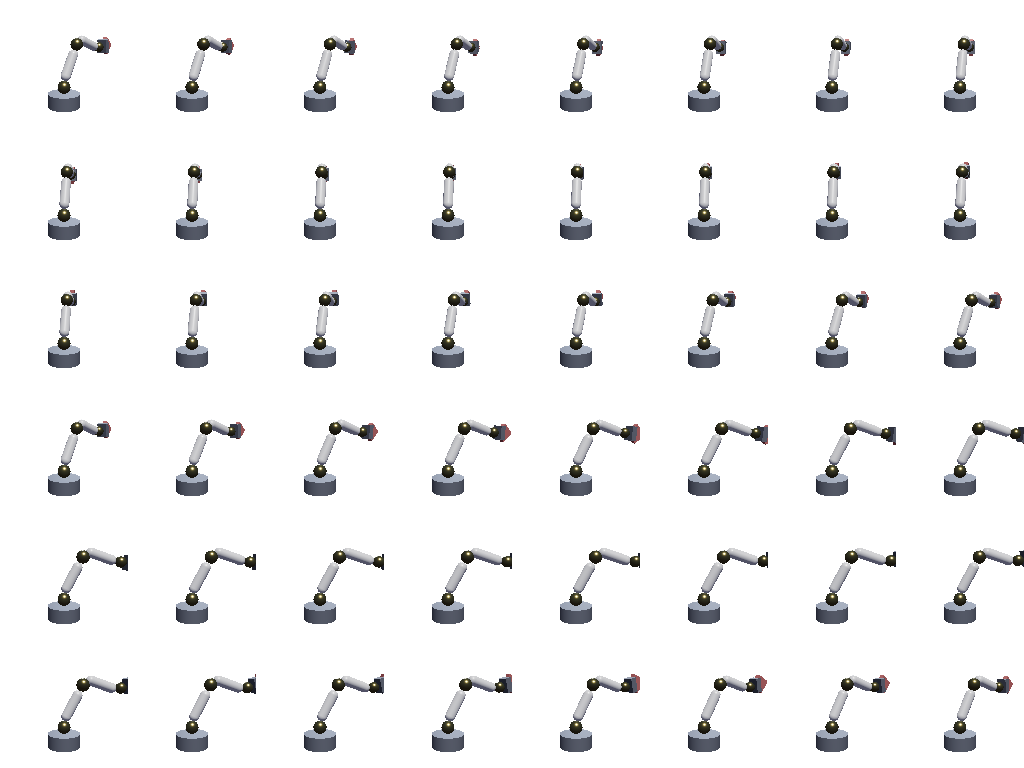
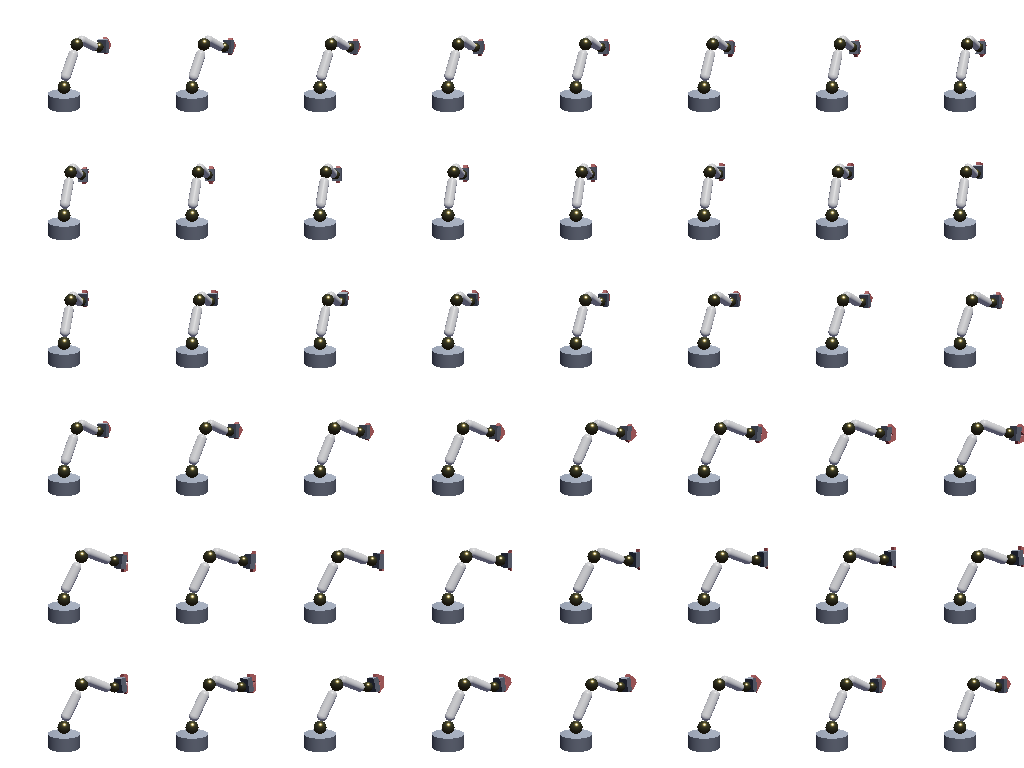
artstation: pixel-clamped sheet sizing + drop INSPECT pane + narrow robot_arm wave
resetCanvas now sets explicit pixel CSS dims with an aspect-preserving
clamp via per-canvas displayCap() — the previous aspect-ratio + auto
sizing approach worked in spec'd browsers but htmlayout collapsed the
SHEET canvas to zero in windowed mode.

Drops the INSPECT pane (canvas + scaled-replay code paths) and its
inspectArt global. The pane was redundant once the live STAGE preview
animated the asset directly, and removing it gives SHEET and STAGE more
room in the windowed layout.

robot_arm yaw amplitude reduced from ±0.7 to ±0.45 rad so the gripper
stays inside the 128×128 frame at peak yaw — was clipping at the cell
edge in both the sprite sheet and the live preview.

diff --git a/apps/artstation/app.js b/apps/artstation/app.js
@@ -10,7 +10,6 @@
 (function () {
 
     const sheetCanvas   = document.getElementById('sheet');
-    const inspectCanvas = document.getElementById('inspect');
     const stageCanvas   = document.getElementById('stage');
     const status        = document.getElementById('status');
     const info          = document.getElementById('info');
@@ -429,22 +428,26 @@
         ctx.imageSmoothingEnabled = true;
     }
 
+    // Per-canvas display caps for resetCanvas. The buffer stays at full
+    // resolution; only the CSS display dims get clamped here. Stage is
+    // user-fixed at 320×240 in style.css so we leave it untouched.
+    function displayCap(canvas) {
+        if (canvas.id === 'sheet') return { w: 520, h: 720 };
+        return { w: Infinity, h: Infinity };
+    }
+
     // Resize a canvas to the target asset size and clear to bg. The buffer
-    // is set to (w, h) at full resolution so screenshot exports stay
-    // pixel-perfect; the CSS display size is clamped via the canvas's
-    // existing max-width / max-height from style.css so a giant sprite
-    // sheet (e.g. 1024×768 from a long animated scene) doesn't blow out
-    // the windowed grid layout.
+    // (canvas.width / height) is set at full resolution so screenshot
+    // exports stay pixel-perfect; the CSS display size is clamped to a
+    // per-canvas max while preserving aspect ratio, so a 1024×768 sheet
+    // doesn't blow out the windowed grid column.
     function resetCanvas(canvas, w, h, bg, pixel) {
         canvas.width  = w;
         canvas.height = h;
-        // Let CSS shrink the displayed canvas via aspect-ratio + max-width
-        // (defined per-canvas in style.css). Clear inline width so it
-        // doesn't override the stylesheet, and pin aspect-ratio so the
-        // browser computes the height proportionally.
-        canvas.style.width  = '';
-        canvas.style.height = '';
-        canvas.style.aspectRatio = `${w} / ${h}`;
+        const cap = displayCap(canvas);
+        const scale = Math.min(1, cap.w / w, cap.h / h);
+        canvas.style.width  = Math.round(w * scale) + 'px';
+        canvas.style.height = Math.round(h * scale) + 'px';
         const ctx = canvas.getContext('2d');
         // Queue a full-surface clear regardless of dimensions — protects
         // against stale pixels surviving from a previous asset's draws when
@@ -539,134 +542,6 @@
             default: throw new Error('unknown kind: ' + entry.kind);
         }
         updateInfo(name);
-        if (entry.kind === 'sheet' || entry.kind === 'tileset' ||
-            entry.kind === 'animated') {
-            inspect();
-        } else if (entry.kind === 'scene') {
-            inspectScene(name);
-        } else {
-            // No inspect view for this kind — wipe any stale pixels left over
-            // from the previously-selected asset so the panel doesn't lie.
-            resetCanvas(inspectCanvas, inspectCanvas.width, inspectCanvas.height, null);
-        }
-    }
-
-    function inspectScene(name) {
-        const entry = REGISTRY[name];
-        const spec = entry.spec;
-        const lay = entry.layout || sceneSize(spec);
-        const fw = spec.frameWidth, fh = spec.frameHeight;
-        const sw = lay.w, sh = lay.h;
-        const scale = Math.max(1, Math.floor(384 / Math.max(sw, sh)));
-        const w = sw * scale, h = sh * scale;
-        const ctx = resetCanvas(inspectCanvas, w, h, '#222');
-
-        // Re-capture each frame at scaled cell size and putImageData onto
-        // the inspect canvas. Mirrors the sheet inspect path but goes
-        // through scene.captureFrame() since 3D content can't be replayed
-        // by drawing into a 2D ctx.
-        const scene = ensureCaptureCanvas();
-        clearScene(scene);
-        let refs = {};
-        try { refs = spec.build(scene) || {}; }
-        catch (e) { console.log('scene build threw:', e.message); }
-        const dt = 1 / spec.fps;
-        for (let i = 0; i < lay.n; i++) {
-            const cx = (i % lay.cols) * fw * scale;
-            const cy = Math.floor(i / lay.cols) * fh * scale;
-            try { spec.frame(scene, i * dt, dt, refs, i); }
-            catch (e) { console.log(`scene frame ${i} threw:`, e.message); }
-            const img = scene.captureFrame(fw * scale, fh * scale);
-            if (img) ctx.putImageData(img, cx, cy);
-        }
-
-        // Cell grid overlay so frame boundaries are still visible after
-        // the captures land — useful for spotting accidentally-clipped
-        // geometry that runs off the cell edge.
-        ctx.fillStyle = 'rgba(0,255,255,0.35)';
-        const cellW = fw * scale, cellH = fh * scale;
-        for (let x = cellW; x < w; x += cellW) ctx.fillRect(x, 0, 1, h);
-        for (let y = cellH; y < h; y += cellH) ctx.fillRect(0, y, w, 1);
-    }
-
-    // ---------- Inspect view (integer-scaled copy of the sheet) ---------
-
-    // Re-renders the current asset into the inspect canvas at integer scale
-    // by replaying the frame/tile draw functions through a scaled transform
-    // (canvas-to-canvas drawImage isn't supported on the scene path).
-    // Default scale picks the largest integer factor that fits ~384px.
-    function inspect(scale) {
-        if (!CURRENT) return;
-        const sw = sheetCanvas.width, sh = sheetCanvas.height;
-        if (scale === undefined) {
-            scale = Math.max(1, Math.floor(384 / Math.max(sw, sh)));
-        }
-        const w = sw * scale, h = sh * scale;
-        const ctx = resetCanvas(inspectCanvas, w, h, null);
-        configurePixel(ctx);
-
-        const entry = REGISTRY[CURRENT];
-        const spec = entry.spec;
-
-        if (entry.kind === 'sheet') {
-            const fw = spec.frameWidth, fh = spec.frameHeight;
-            for (let i = 0; i < spec.frames.length; i++) {
-                const fn = spec.frames[i];
-                if (!fn) continue;
-                const cx = (i % spec.cols) * fw * scale;
-                const cy = Math.floor(i / spec.cols) * fh * scale;
-                ctx.save();
-                ctx.beginPath();
-                ctx.rect(cx, cy, fw * scale, fh * scale);
-                ctx.clip();
-                ctx.translate(cx, cy);
-                ctx.scale(scale, scale);
-                try { fn(ctx, fw, fh, i); } catch (e) {}
-                ctx.restore();
-            }
-        } else if (entry.kind === 'animated') {
-            // Replay the procedural animation through virtual frame indices,
-            // same as renderAnimated but at integer scale into inspect.
-            const lay = entry.layout || animatedSize(spec);
-            const fw = spec.frameWidth, fh = spec.frameHeight;
-            const dt = 1 / spec.fps;
-            const state = (typeof spec.init === 'function') ? (spec.init() || {}) : {};
-            for (let i = 0; i < lay.n; i++) {
-                const cx = (i % lay.cols) * fw * scale;
-                const cy = Math.floor(i / lay.cols) * fh * scale;
-                ctx.save();
-                ctx.beginPath();
-                ctx.rect(cx, cy, fw * scale, fh * scale);
-                ctx.clip();
-                ctx.translate(cx, cy);
-                ctx.scale(scale, scale);
-                try { spec.frame(ctx, fw, fh, i * dt, dt, state); } catch (e) {}
-                ctx.restore();
-            }
-        } else {
-            const ts = spec.tileSize;
-            for (let i = 0; i < spec.tiles.length; i++) {
-                const fn = spec.tiles[i];
-                if (!fn) continue;
-                const cx = (i % spec.cols) * ts * scale;
-                const cy = Math.floor(i / spec.cols) * ts * scale;
-                ctx.save();
-                ctx.beginPath();
-                ctx.rect(cx, cy, ts * scale, ts * scale);
-                ctx.clip();
-                ctx.translate(cx, cy);
-                ctx.scale(scale, scale);
-                try { fn(ctx, ts, i); } catch (e) {}
-                ctx.restore();
-            }
-        }
-
-        // Faint cyan grid lines on frame/tile boundaries.
-        ctx.fillStyle = 'rgba(0,255,255,0.35)';
-        const cellW = (entry.kind === 'tileset' ? spec.tileSize : spec.frameWidth) * scale;
-        const cellH = (entry.kind === 'tileset' ? spec.tileSize : spec.frameHeight) * scale;
-        for (let x = cellW; x < w; x += cellW) ctx.fillRect(x, 0, 1, h);
-        for (let y = cellH; y < h; y += cellH) ctx.fillRect(0, y, w, 1);
     }
 
     // ---------- Save (PNG of sheet canvas) ------------------------------
@@ -1722,8 +1597,5 @@
     window.saveGif       = saveGif;
     window.preview       = preview;
     window.previewMap    = previewMap;
-    // Headless installs its own `inspect()` (layout debugger) after page
-    // load, so we expose ours under a different name to avoid the clobber.
-    window.inspectArt    = inspect;
 
 })();

diff --git a/apps/artstation/style.css b/apps/artstation/style.css
@@ -137,7 +137,7 @@ body {
 
 #layout {
     display: grid;
-    grid-template-columns: auto auto auto 1fr;
+    grid-template-columns: auto auto 1fr;
     gap: 16px;
     align-items: start;
 }
@@ -172,32 +172,19 @@ canvas {
     image-rendering: pixelated;
 }
 
-/* Buffer dims (canvas.width/height) are set programmatically; the screenshot
-   path reads from that buffer so display size doesn't affect output.
-   Display size is clamped here so a 1024×768 animated scene sheet doesn't
-   blow out the column. resetCanvas() pins style.aspectRatio per asset, so
-   the browser shrinks proportionally. */
+/* Buffer dims (canvas.width/height) are set programmatically; the
+   screenshot path reads the buffer, so display size doesn't affect output.
+   resetCanvas() clamps the CSS display dims to a per-canvas max with
+   aspect ratio preserved (see displayCap() in app.js). */
 #sheet {
     image-rendering: pixelated;
-    max-width: 480px;
-    max-height: 720px;
-    width: auto;
-    height: auto;
-}
-
-#inspect {
-    image-rendering: pixelated;
-    max-width: 360px;
-    max-height: 720px;
-    width: auto;
-    height: auto;
 }
 
 #stage {
     /* Bro's layout doesn't promote <canvas width/height> attributes to a
        CSS intrinsic box, so without explicit dimensions the canvas
        collapses to height:0 — buffer paints land but nothing reaches the
-       screen. SHEET/INSPECT escape this because resetCanvas() rewrites
+       screen. SHEET escapes this because resetCanvas() rewrites
        canvas.style.width/height per asset; STAGE keeps a fixed size. */
     width:  320px;
     height: 240px;

diff --git a/apps/artstation/assets/robot_arm.js b/apps/artstation/assets/robot_arm.js
@@ -179,9 +179,11 @@ defineAssembly('robot_arm', {
     },
 
     frame(refs, t, dt, i) {
-        // Two-second loop. The wave is a shoulder-yaw sweep; over the same
-        // span the gripper opens and closes once and the wrist nods.
-        const yaw   = Math.sin(t * Math.PI)        * 0.7;     // ±0.7
+        // Two-second loop. The wave is a shoulder-yaw sweep — kept narrow
+        // (±0.45 rad ~ ±26°) so the gripper stays inside the 128×128 frame
+        // at peak yaw; over the same span the gripper opens/closes once
+        // and the wrist nods.
+        const yaw   = Math.sin(t * Math.PI)        * 0.45;
         const wrist = -0.4 + Math.sin(t * Math.PI * 2) * 0.20;
         const grip  =  0.25 + 0.55 * (0.5 + 0.5 * Math.cos(t * Math.PI * 2));
 

diff --git a/apps/artstation/index.html b/apps/artstation/index.html
@@ -50,13 +50,6 @@
             <canvas id="sheet" width="32" height="32"></canvas>
         </div>
 
-        <!-- Inspect canvas: integer-scaled view of the sheet for visual
-             debugging via screenshots. -->
-        <div id="inspect-wrap">
-            <div class="label">INSPECT (scaled)</div>
-            <canvas id="inspect" width="256" height="256"></canvas>
-        </div>
-
         <!-- Stage: scene-based animation preview to verify the produced
              spritesheet animates correctly when fed back into createSprite. -->
         <div id="stage-wrap">
@@ -74,7 +67,6 @@ From headless:
   load('hero')
   render()
   save('hero')
-  inspectArt(8)
   preview('walk')</pre>
     </div>
 

diff --git a/apps/artstation/README.md b/apps/artstation/README.md
@@ -241,7 +241,6 @@ defineTileset('terrain', {
 | `load(name)` | Load `assets/<name>.js` and register its asset(s) |
 | `render(name?)` | Render the current (or named) asset to the sheet canvas |
 | `save(name?)` | Write the sheet PNG (alpha preserved) + sidecar manifest JSON |
-| `inspectArt(scale?)` | Re-render at integer scale into the inspect canvas (debug) |
 | `saveVideo(name?, opts?)` | Encode `defineAnimated` or `defineSheet` to `output/<name>.webm` (VP9). Opts: path, fps, bitrateKbps, quality, anim |
 | `saveGif(name?, opts?)` | Encode `defineAnimated` or `defineSheet` to `output/<name>.gif` (GIF89a). Opts: path, fps, paletteBits, loopCount, anim |
 | `preview(animName?)` | Animate the saved sprite back through the scene API on the stage canvas |
